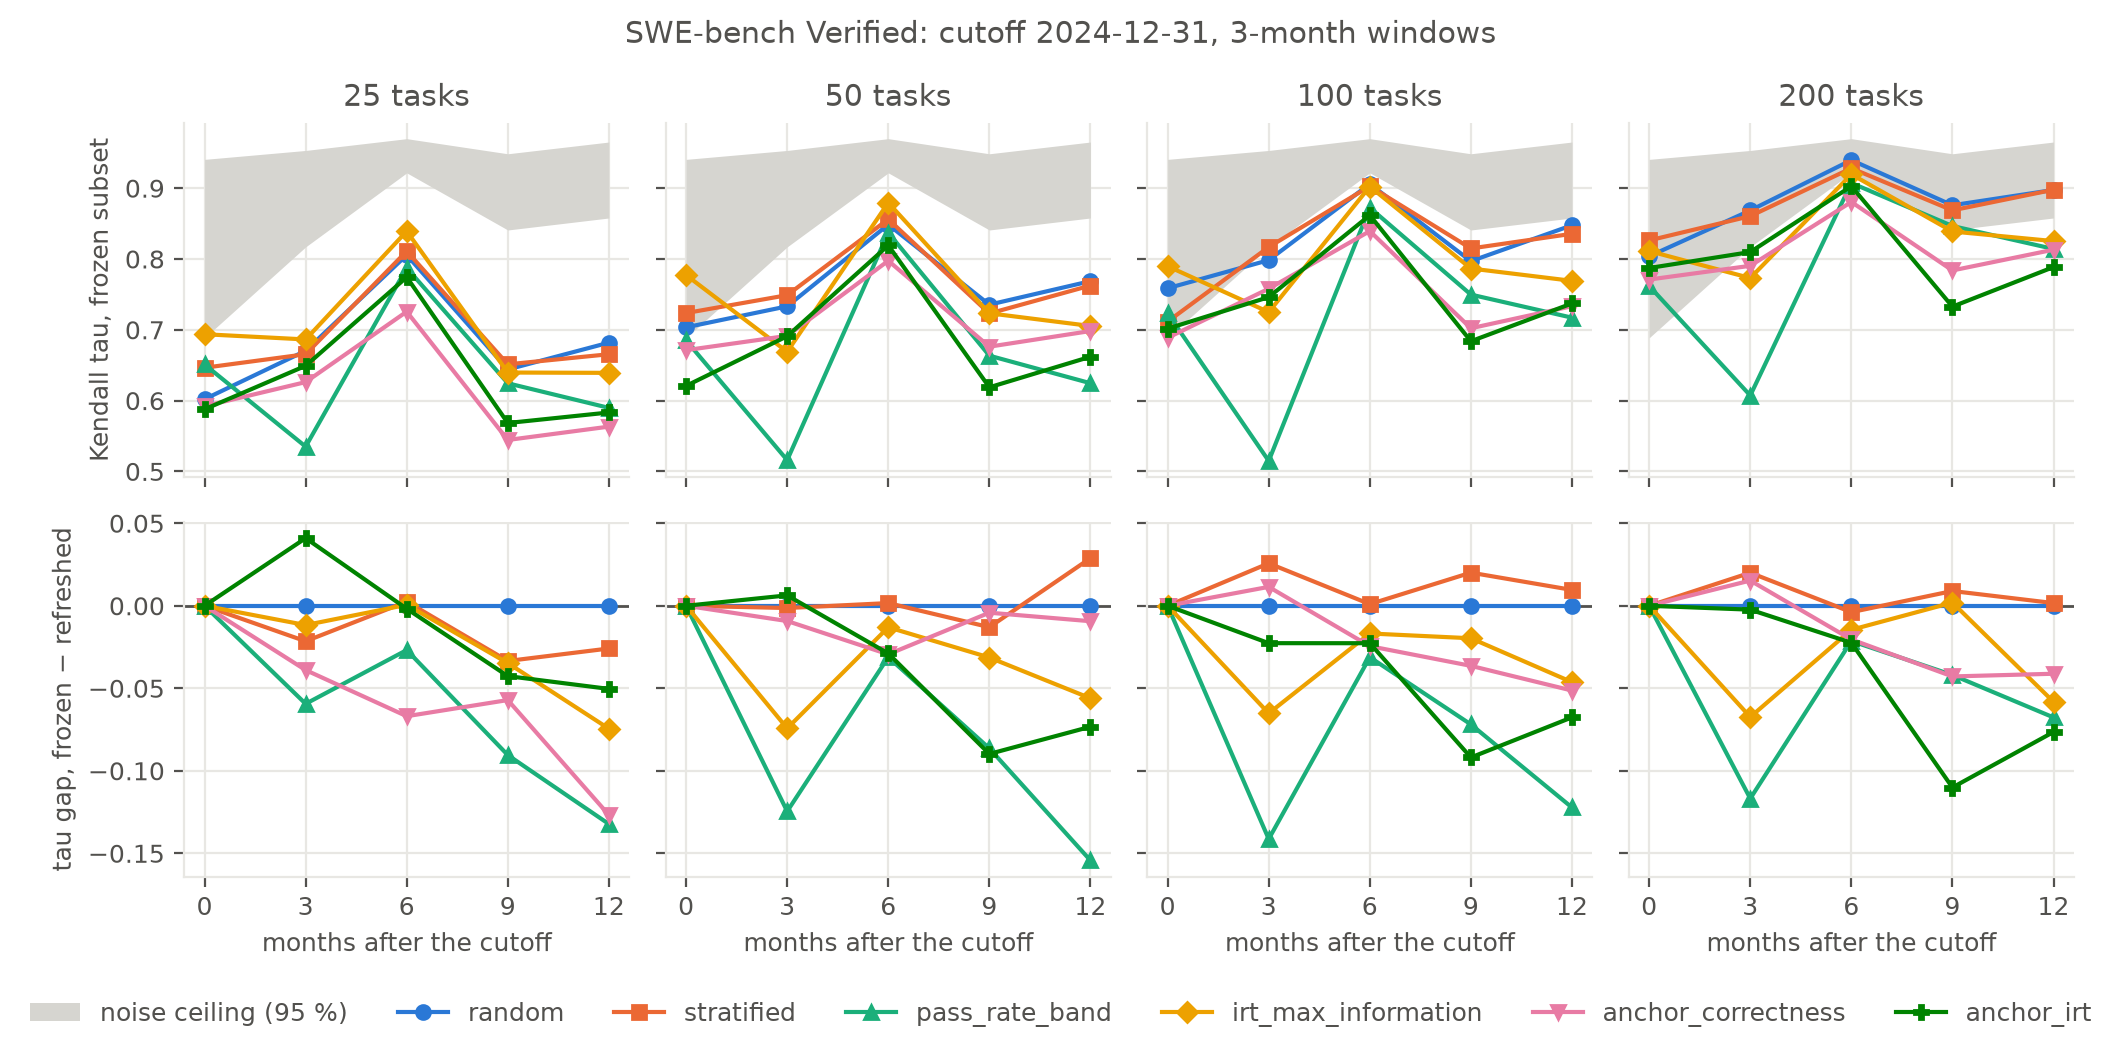
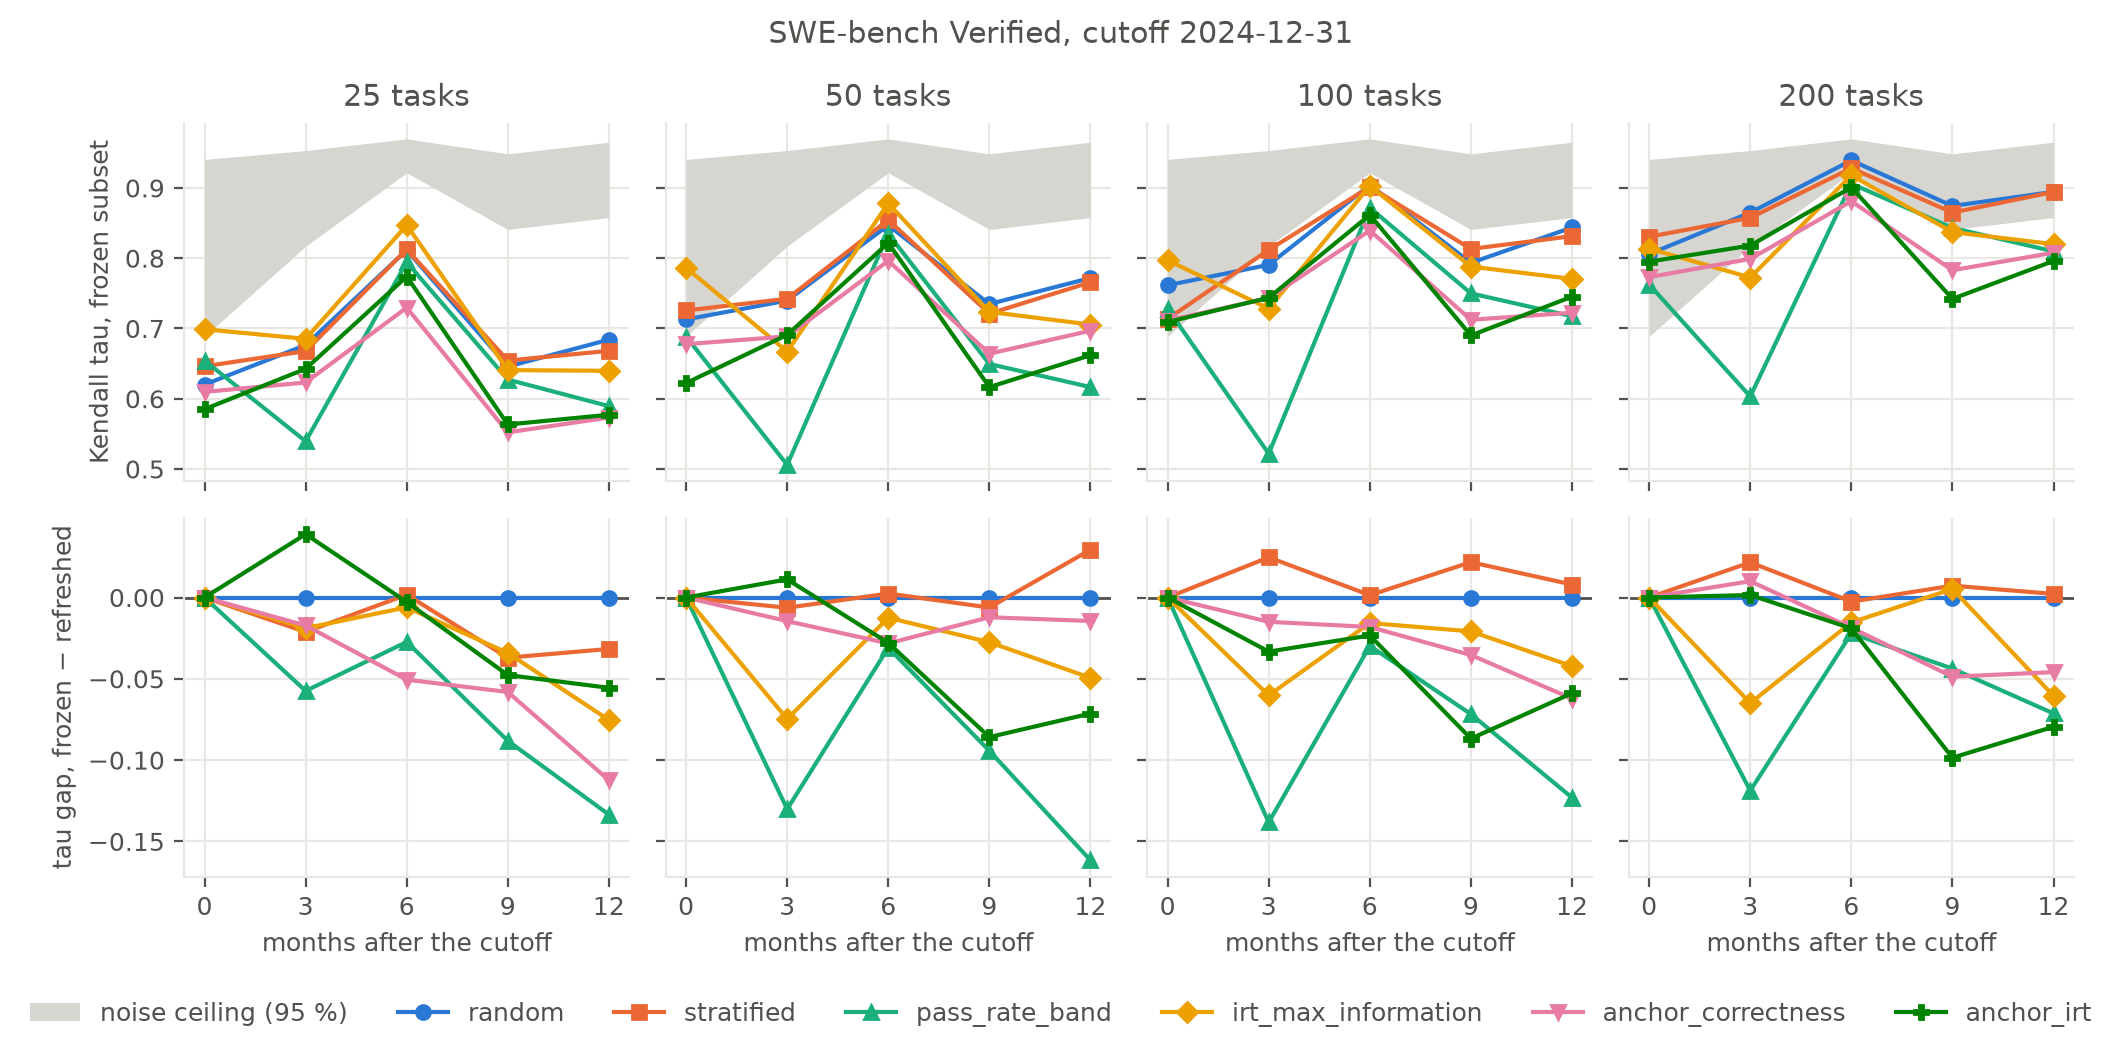
C2: same test window, older frozen subset figure; regenerate C2 figures with 20 repeats
plot_decay_by_age.py lines up the four SWE-bench cutoff runs by calendar window: test
agents and the refreshed subset are identical across runs, so only the frozen subset's
age changes. The 2025-12 window falls from -0.016 (2 months old) to -0.061 (11 months).

diff --git a/experiments/plot_decay_by_age.py b/experiments/plot_decay_by_age.py
@@ -1,0 +1,163 @@
+"""C2 control figure: the same test window, scored by frozen subsets of different ages, one line per test window.
+
+Across cutoffs, a later window holds the same test agents and the same refreshed subset (same selection date, same seed), so only the frozen subset's age changes along a line.
+A line that falls with age shows staleness that is not explained by which agents happen to land in a window.
+Each point averages the gap over every method but plain random (0 by construction) and every subset size; bars are the central 95 % of that average across repeats.
+Window 0 of a cutoff starts on the cutoff day, so its agents differ from the same calendar window seen from an earlier cutoff; window 0 rows (gap 0) are left out.
+"""
+
+import argparse
+from pathlib import Path
+
+import matplotlib
+
+matplotlib.use("Agg")
+import matplotlib.pyplot as plt
+import pandas as pd
+
+# note (Haoling Pu): same categorical slots and text colours as plot_decay_summary.py.
+WINDOW_STYLES = (
+    ("#2a78d6", "o"),
+    ("#eb6834", "s"),
+    ("#1baf7a", "^"),
+    ("#eda100", "D"),
+    ("#8a5cd6", "v"),
+)
+TEXT_COLOR = "#52514e"
+GRID_COLOR = "#e8e7e3"
+
+
+def main() -> None:
+    parser = argparse.ArgumentParser(description=__doc__)
+    parser.add_argument(
+        "--decay-csv",
+        type=Path,
+        nargs="+",
+        required=True,
+        help="one run_decay.py output per cutoff, written to a folder named after its cutoff date (results/c2/<cutoff>/)",
+    )
+    parser.add_argument(
+        "--window-months",
+        type=int,
+        default=3,
+        help="the runs' --window-months; windows line up across cutoffs only when the cutoffs are a multiple of it apart",
+    )
+    parser.add_argument("--output", type=Path, required=True)
+    parser.add_argument("--title", default="")
+    cli_arguments = parser.parse_args()
+
+    gap_tables = []
+    for decay_csv in cli_arguments.decay_csv:
+        cutoff_date = pd.Timestamp(decay_csv.parent.name)
+        results = pd.read_csv(decay_csv)
+        results = results[
+            (results["method"] != "random") & (results["window_start_month"] > 0)
+        ]
+        per_repeat_gap = (
+            results.groupby(["window_start_month", "repeat"])["kendall_tau_gap"]
+            .mean()
+            .reset_index()
+        )
+        per_repeat_gap["window_start"] = [
+            (cutoff_date.to_period("M") + int(start_month)).start_time
+            for start_month in per_repeat_gap["window_start_month"]
+        ]
+        # note (Haoling Pu): the frozen subset knows agents up to the cutoff day, so a quarter-end cutoff is about 2 months old at the month-3 window's first day, not 3.
+        per_repeat_gap["subset_age_months"] = (
+            (per_repeat_gap["window_start"] - cutoff_date).dt.days / 30.44
+        ).round().astype(int)
+        gap_tables.append(per_repeat_gap)
+    gap_by_repeat = pd.concat(gap_tables, ignore_index=True)
+    gap = (
+        gap_by_repeat.groupby(["window_start", "subset_age_months"])["kendall_tau_gap"]
+        .agg(
+            mean="mean",
+            low=lambda repeat_gap: repeat_gap.quantile(0.025),
+            high=lambda repeat_gap: repeat_gap.quantile(0.975),
+        )
+        .reset_index()
+    )
+    # note (Haoling Pu): only windows seen at two or more ages can show a trend.
+    num_ages_by_window = gap.groupby("window_start")["subset_age_months"].nunique()
+    shared_windows = num_ages_by_window.index[num_ages_by_window >= 2]
+    if len(shared_windows) > len(WINDOW_STYLES):
+        raise ValueError(
+            f"{len(shared_windows)} windows are seen at two ages or more; at most {len(WINDOW_STYLES)} fit one figure"
+        )
+    else:
+        pass
+
+    plt.rcParams.update(
+        {
+            "font.size": 9,
+            "text.color": TEXT_COLOR,
+            "axes.labelcolor": TEXT_COLOR,
+            "xtick.color": TEXT_COLOR,
+            "ytick.color": TEXT_COLOR,
+            "axes.edgecolor": GRID_COLOR,
+        }
+    )
+    figure, axis = plt.subplots(figsize=(5.5, 3.6))
+    axis.axhline(0.0, color=TEXT_COLOR, linewidth=1)
+    offsets = [
+        0.2 * (position - (len(shared_windows) - 1) / 2)
+        for position in range(len(shared_windows))
+    ]
+    for window_start, (color, marker), offset in zip(
+        shared_windows, WINDOW_STYLES, offsets
+    ):
+        window_gap = gap[gap["window_start"] == window_start]
+        window_end = (
+            window_start.to_period("M") + cli_arguments.window_months - 1
+        ).to_timestamp()
+        axis.errorbar(
+            window_gap["subset_age_months"] + offset,
+            window_gap["mean"],
+            yerr=[
+                window_gap["mean"] - window_gap["low"],
+                window_gap["high"] - window_gap["mean"],
+            ],
+            color=color,
+            marker=marker,
+            markersize=5,
+            linewidth=1.5,
+            elinewidth=1,
+            capsize=2,
+            label=f"{window_start:%Y-%m} to {window_end:%Y-%m}",
+        )
+    axis.set_xticks(sorted(gap["subset_age_months"].unique()))
+    axis.set_xlabel(
+        "age of the frozen subset at the window's start (months from the cutoff day)"
+    )
+    axis.set_ylabel("tau gap, frozen − refreshed")
+    axis.grid(color=GRID_COLOR, linewidth=0.8)
+    axis.set_axisbelow(True)
+    axis.spines[["top", "right"]].set_visible(False)
+    axis.legend(frameon=False, title="test window", loc="lower left")
+    if cli_arguments.title:
+        axis.set_title(cli_arguments.title, color=TEXT_COLOR)
+    else:
+        pass
+    figure.text(
+        0.0,
+        -0.02,
+        f"Bars: central 95 % over {gap_by_repeat['repeat'].nunique()} repeats, which resample the selection agents only (test agents fixed). "
+        "Along a line, only the frozen subset's age changes.",
+        fontsize=7,
+        color=TEXT_COLOR,
+        ha="left",
+        va="top",
+    )
+    figure.tight_layout()
+    cli_arguments.output.parent.mkdir(parents=True, exist_ok=True)
+    figure.savefig(cli_arguments.output, dpi=200, bbox_inches="tight")
+    print(
+        gap[gap["window_start"].isin(shared_windows)]
+        .pivot(index="window_start", columns="subset_age_months", values="mean")
+        .round(3)
+        .to_string()
+    )
+
+
+if __name__ == "__main__":
+    main()
